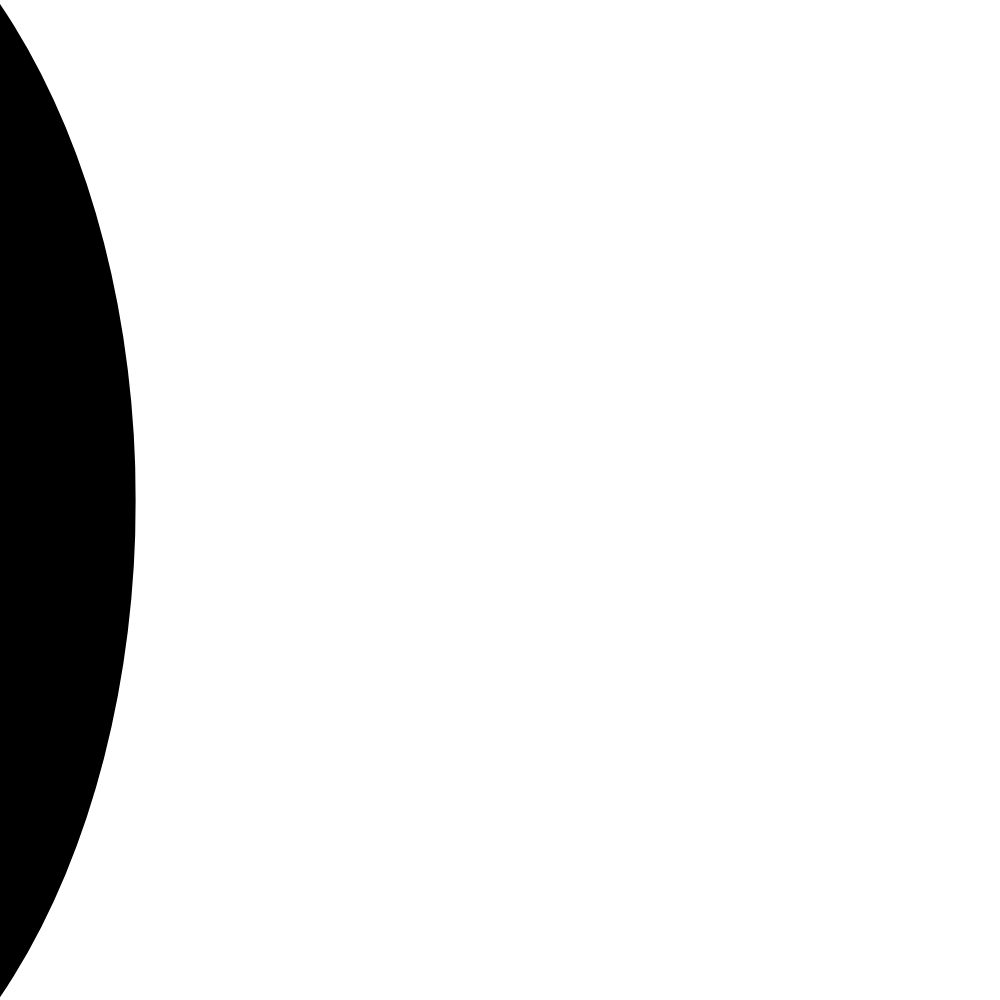
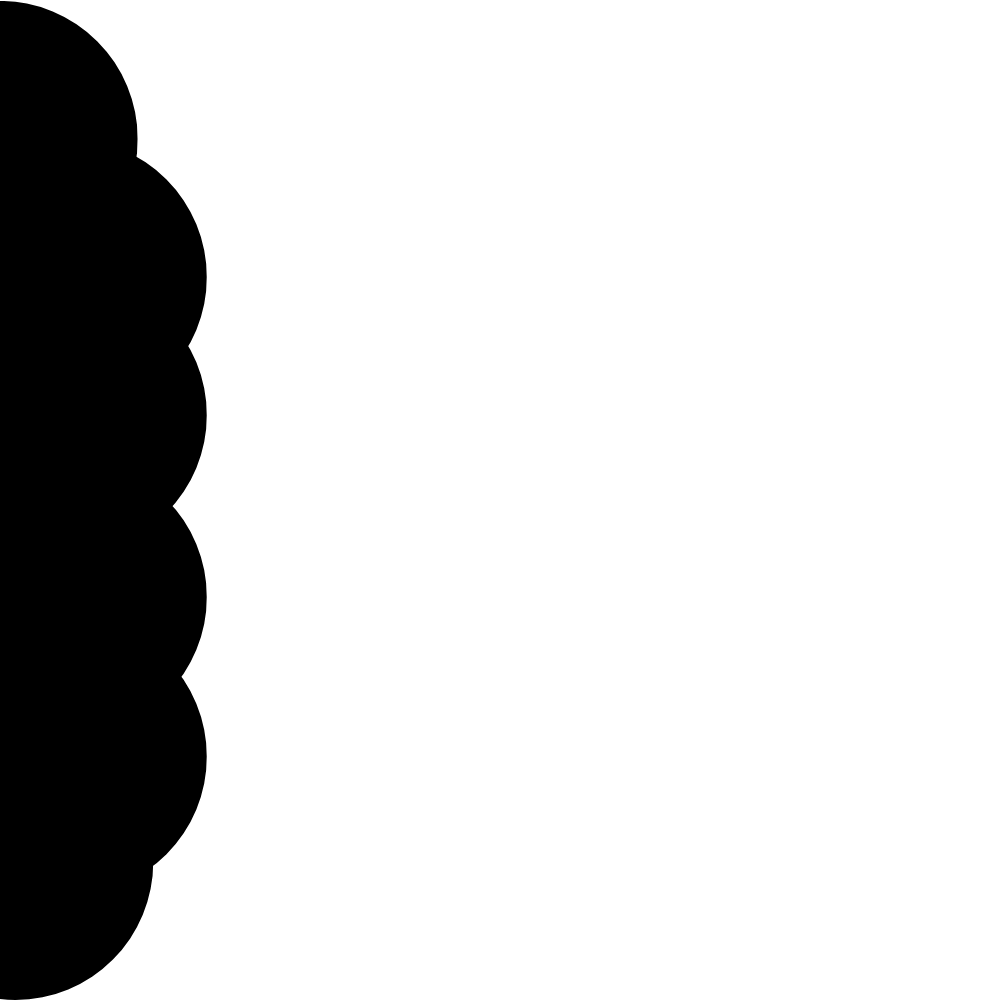
Added header section

Changed region(s): [[0.0, 0.0, 0.217, 1.0]]

diff --git a/portfolio/src/app/app.component.scss b/portfolio/src/app/app.component.scss
@@ -2,7 +2,7 @@ app-my-header {
   display: flex;
   justify-content: center;
   align-items: center;
-  height: 10vh;
+  height: 15vh;
 }
 
 main {
@@ -11,50 +11,61 @@ main {
       #00ff00 calc(100% - var(--scroll-percent)),
       #0000ff var(--scroll-percent));
   padding: 0;
+  width: 100%;
 }
 
 .header-landing {
   position: relative;
-  width: 100vw;
+  width: 100%;
   height: 100vh;
   padding: 0;
 }
 
 .side-bubbles-left {
-  position: absolute;
-  height: 100%;
+  position: fixed;
+  height: 100vh;
+  background-image: url('/images/bubbles.png');
+  background-size: contain;
+  width: clamp(200px, 25vw, 400px); // min, preferred, max
   top: 0;
   left: 0;
   bottom: 0;
   pointer-events: none;
-  
+
   // Initial position: off-screen to the left
-  transform: translateX(-100%);
+    transform: translateX(-100%);
   animation: slideInFromLeft 1.5s ease-out forwards;
 
+    // After animation, transition to scroll control
+  transition: transform 0.1s ease-out;
+  transition-delay: 1.8s; // Start after animation + delay completes
+
   img:nth-child(1) {
+    width: 100%;
     height: 100%;
     object-fit: cover;
   }
 }
 
 .side-bubbles-right {
-  position: absolute;
-  height: 100%;
+  position: fixed;
+  height: 100vh;
+  width: clamp(200px, 25vw, 400px); // min, preferred, max
   top: 0;
   right: 0;
   bottom: 0;
+  background-image: url('/images/bubbles.png');
+  background-size: contain;
   pointer-events: none;
-  
+
   // Initial position: off-screen to the right
-  transform: translateX(100%);
+  transform: scaleX(-1) translateX(-100%);
   animation: slideInFromRight 1.5s ease-out 0.3s forwards;
 
-  img:nth-child(1) {
-    height: 100%;
-    object-fit: cover;
-    transform: scaleX(-1); // Mirrors the image horizontally
-  }
+    // After animation, transition to scroll control
+  animation-delay: 0s;
+  transition: transform 0.1s ease-out;
+  transition-delay: 1.5s; // Start transition after animation completes
 }
 
 // Animation for left side bubbles
@@ -63,20 +74,32 @@ main {
     transform: translateX(-100%);
     opacity: 0;
   }
+
   100% {
     transform: translateX(0);
     opacity: 1;
   }
 }
 
-// Animation for right side bubbles
-@keyframes slideInFromRight {
+// Updated animations that will be overridden by scroll
+@keyframes slideInFromLeft {
   0% {
-    transform: translateX(100%);
+    transform: translateX(-100%);
     opacity: 0;
   }
   100% {
-    transform: translateX(0);
+    transform: translateX(calc((clamp(30%, var(--scroll-percent), 50%) - 30%) * -5));
+    opacity: 1;
+  }
+}
+
+@keyframes slideInFromRight {
+  0% {
+    transform: scaleX(-1) translateX(-100%);
+    opacity: 0;
+  }
+  100% {
+    transform: scaleX(-1) translateX(calc((clamp(30%, var(--scroll-percent), 50%) - 30%) * -5));
     opacity: 1;
   }
 }

diff --git a/portfolio/src/app/my-header/my-header.component.scss b/portfolio/src/app/my-header/my-header.component.scss
@@ -1,9 +1,104 @@
-header ul {
-    list-style: none;
-    padding: 0;
-    margin: 0;
+header {
+    nav {
+        display: flex;
+        flex-direction: row;
+        align-items: start;
+        justify-content: space-around;
+        width: 100%;
+        height: 80%; 
+
+        &::before {
+            content: '';
+            position: absolute;
+            top: 0;
+            left: 0;
+            width: 100%;
+            height: 80%;
+            background-color: white;
+            z-index: -1000; 
+        }
+    }
+
+    ul {
+        list-style: none;
+        display: flex;
+        flex-direction: row;
+        justify-content: space-around;
+        align-items: center;
+        width: 80%;
+        height: 100%;
+        padding: 0;
+        margin: 0;
+        box-sizing: border-box;
+    }
+
+    width: 100vw;
+    height: clamp(50px, 15vh, 100px); 
+    position: fixed;
+    left: 0;
+    top: 0;
+    z-index: 1000;
+}
+
+li {
     display: flex;
-    flex-direction: row;
-    justify-content: space-around;
-    width: 60vw;
+    align-items: center;
+    justify-content: center;
+    position: relative;
+    overflow: visible;
+    width: 100%;
+    height: 100%;
+    text-align: center;
+    background-color: transparent;
+    color: black;
+    transition: color 0.2s, background 0.2s, box-shadow 0.2s;
+    
+    a {
+        display: block;
+        font-size: clamp(1rem, 2.5vw, 3rem);
+        text-decoration: none;
+        font-weight: 600;
+        border-radius: 2rem;
+        width: 100%;
+        height: 100%; // Now it will fill the li
+        padding: 2rem 0; // Move padding here
+        box-shadow: 0 2px 8px rgba(0,194,0,0.08);
+        color: black;
+        display: flex; // Add this
+        align-items: center; // Center content vertically
+        justify-content: center; // Center content horizontally
+    }
+    
+    &:hover {
+        color: white;
+        background: rgb(0, 155, 21);
+        a {
+            color: rgb(3, 255, 37);
+        }
+    }
+}
+
+// li::before {
+//     content: '';
+//     position: absolute;
+//     overflow: visible;
+//     top: 50%;
+//     left: 50%;
+//     transform: translate(-50%, -50%);
+//     width: calc(25vw);
+//     height: 300%;
+//     background-image: url('/images/bubbles-top.png');
+//     background-size: 100% 100%;
+//     opacity: 1;
+//     z-index: -1;
+//     pointer-events: none;
+// }
+
+@media screen and (max-width: 920px) {
+    header {
+        nav {
+            height: 50%;
+        }
+    }
+    
 }

diff --git a/portfolio/src/app/landing/landing.component.scss b/portfolio/src/app/landing/landing.component.scss
@@ -5,28 +5,31 @@ section {
     justify-content: center;
     width: 100%;
     position: relative;
+    margin-top: 3vh;
 }
 
 .photo {
     background-repeat: no-repeat;
     background-size: cover;
-    width: 30vw;
-    height: 30vw;
+    width: clamp(300px, 60vw, 400px); // min, preferred, max
+    height: clamp(300px, 60vw, 400px); // min, preferred, max
     border-radius: 30vw;
     overflow: hidden;
     box-sizing: border-box;
     border-style: solid;
 
-    
+
     // Add flexbox centering
     display: flex;
     justify-content: center;
     align-items: center;
+
     div {
         border-radius: 30vw;
         width: 95%;
         height: 95%;
         overflow: hidden; // Ensures the image doesn't overflow the container
+
         img {
             width: 100%;
             height: 100%;
@@ -34,4 +37,40 @@ section {
             display: block; // Removes any extra spacing
         }
     }
+}
+
+.about {
+    text-align: left;
+    margin-top: 20px;
+    max-width: 1200px; // Limit the width for better readability
+    padding: 0 20px; // Add some padding for spacing
+    font-size: clamp(1.5rem, 3vw + 1rem, 2rem); // Adjust font size as needed
+    text-align: center;
+    color: #333; // Set a color for the text
+    display: flex;
+    flex-direction: column;
+    align-items: center;
+
+    a {
+        max-width: 100%;  // Prevent overflow
+        height: 130px;
+    }
+
+    p {
+        width: clamp(300px, 60vw, 800px); // min, preferred, max
+        transition: filter 0.3s;
+        opacity: 0;
+        animation: slideUp 0.5s forwards 2.5s;
+    }
+}
+
+@keyframes slideUp {
+  from {
+    opacity: 0;
+    transform: translateY(-100%);
+  }
+  to {
+    opacity: 1;
+    transform: translateY(0);
+  }
 }

diff --git a/portfolio/src/app/app.component.ts b/portfolio/src/app/app.component.ts
@@ -14,7 +14,7 @@ import { isPlatformBrowser } from '@angular/common';
   templateUrl: './app.component.html',
   styleUrl: './app.component.scss'
 })
-export class AppComponent implements AfterViewInit, OnDestroy{
+export class AppComponent implements AfterViewInit, OnDestroy {
   @ViewChild('gradient', { static: true, read: ElementRef }) gradient!: ElementRef;
   title = 'portfolio';
   platformId = inject(PLATFORM_ID);
@@ -26,20 +26,21 @@ export class AppComponent implements AfterViewInit, OnDestroy{
   }
 
 
-updateGradient = () => {
-  if (isPlatformBrowser(this.platformId)) {
-    const scrollTop = window.scrollY;
-    const docHeight = document.documentElement.scrollHeight - window.innerHeight;
-    let percent = docHeight > 0 ? (scrollTop / docHeight) * 100 : 0;
+  updateGradient = () => {
+    if (isPlatformBrowser(this.platformId)) {
+      const scrollTop = window.scrollY;
+      const docHeight = document.documentElement.scrollHeight - window.innerHeight;
+      let percent = docHeight > 0 ? (scrollTop / docHeight) * 100 : 0;
 
-    percent = Math.max(0, percent); 
-    percent = Math.min(100, percent);
+      percent = Math.max(0, percent);
+      percent = Math.min(100, percent);
 
-    if (this.gradient?.nativeElement) {
-      this.gradient.nativeElement.style.setProperty('--scroll-percent', `${percent}%`);
+      if (this.gradient?.nativeElement) {
+        this.gradient.nativeElement.style.setProperty('--scroll-percent', `${percent}%`);
+        this.gradient.nativeElement.style.setProperty('--scroll-percent-num', `${percent}`);
+      }
     }
-  }
-};
+  };
 
   ngOnDestroy(): void {
     if (isPlatformBrowser(this.platformId)) {

diff --git a/portfolio/src/app/app.component.html b/portfolio/src/app/app.component.html
@@ -1,14 +1,10 @@
 <main #gradient>
     <section class="header-landing">
         <div class="side-bubbles-left">
-            <img src="images/bubbles.png" alt="">
-            <!-- <img src="images/bubbles.png" alt=""> -->
         </div>
         <div class="side-bubbles-right">
-            <img src="images/bubbles.png" alt="">
-            <!-- <img src="images/bubbles.png" alt=""> -->
         </div>
-        <app-my-header></app-my-header>
+        <app-my-header></app-my-header> 
         <app-landing></app-landing>
     </section>
     <graph-component ngSkipHydration></graph-component>

diff --git a/portfolio/src/app/landing/landing.component.html b/portfolio/src/app/landing/landing.component.html
@@ -4,4 +4,10 @@
             <img src="images/me.jpeg" alt="A photo of me" />
         </div>
     </div>
+    <div class="about">
+        <a href="https://git.io/typing-svg"><img src="https://readme-typing-svg.demolab.com?font=Fira+Code&size=30&duration=1000&pause=40&color=000000&center=true&vCenter=true&multiline=true&repeat=false&width=300&height=130&lines=Hi+there%2C;I'm+Abdallah!" alt="Typing SVG" /></a>
+        <p>
+            A full stack developer that loves to code and turn creative ideas into reality
+        </p>
+    </div>
 </section>
